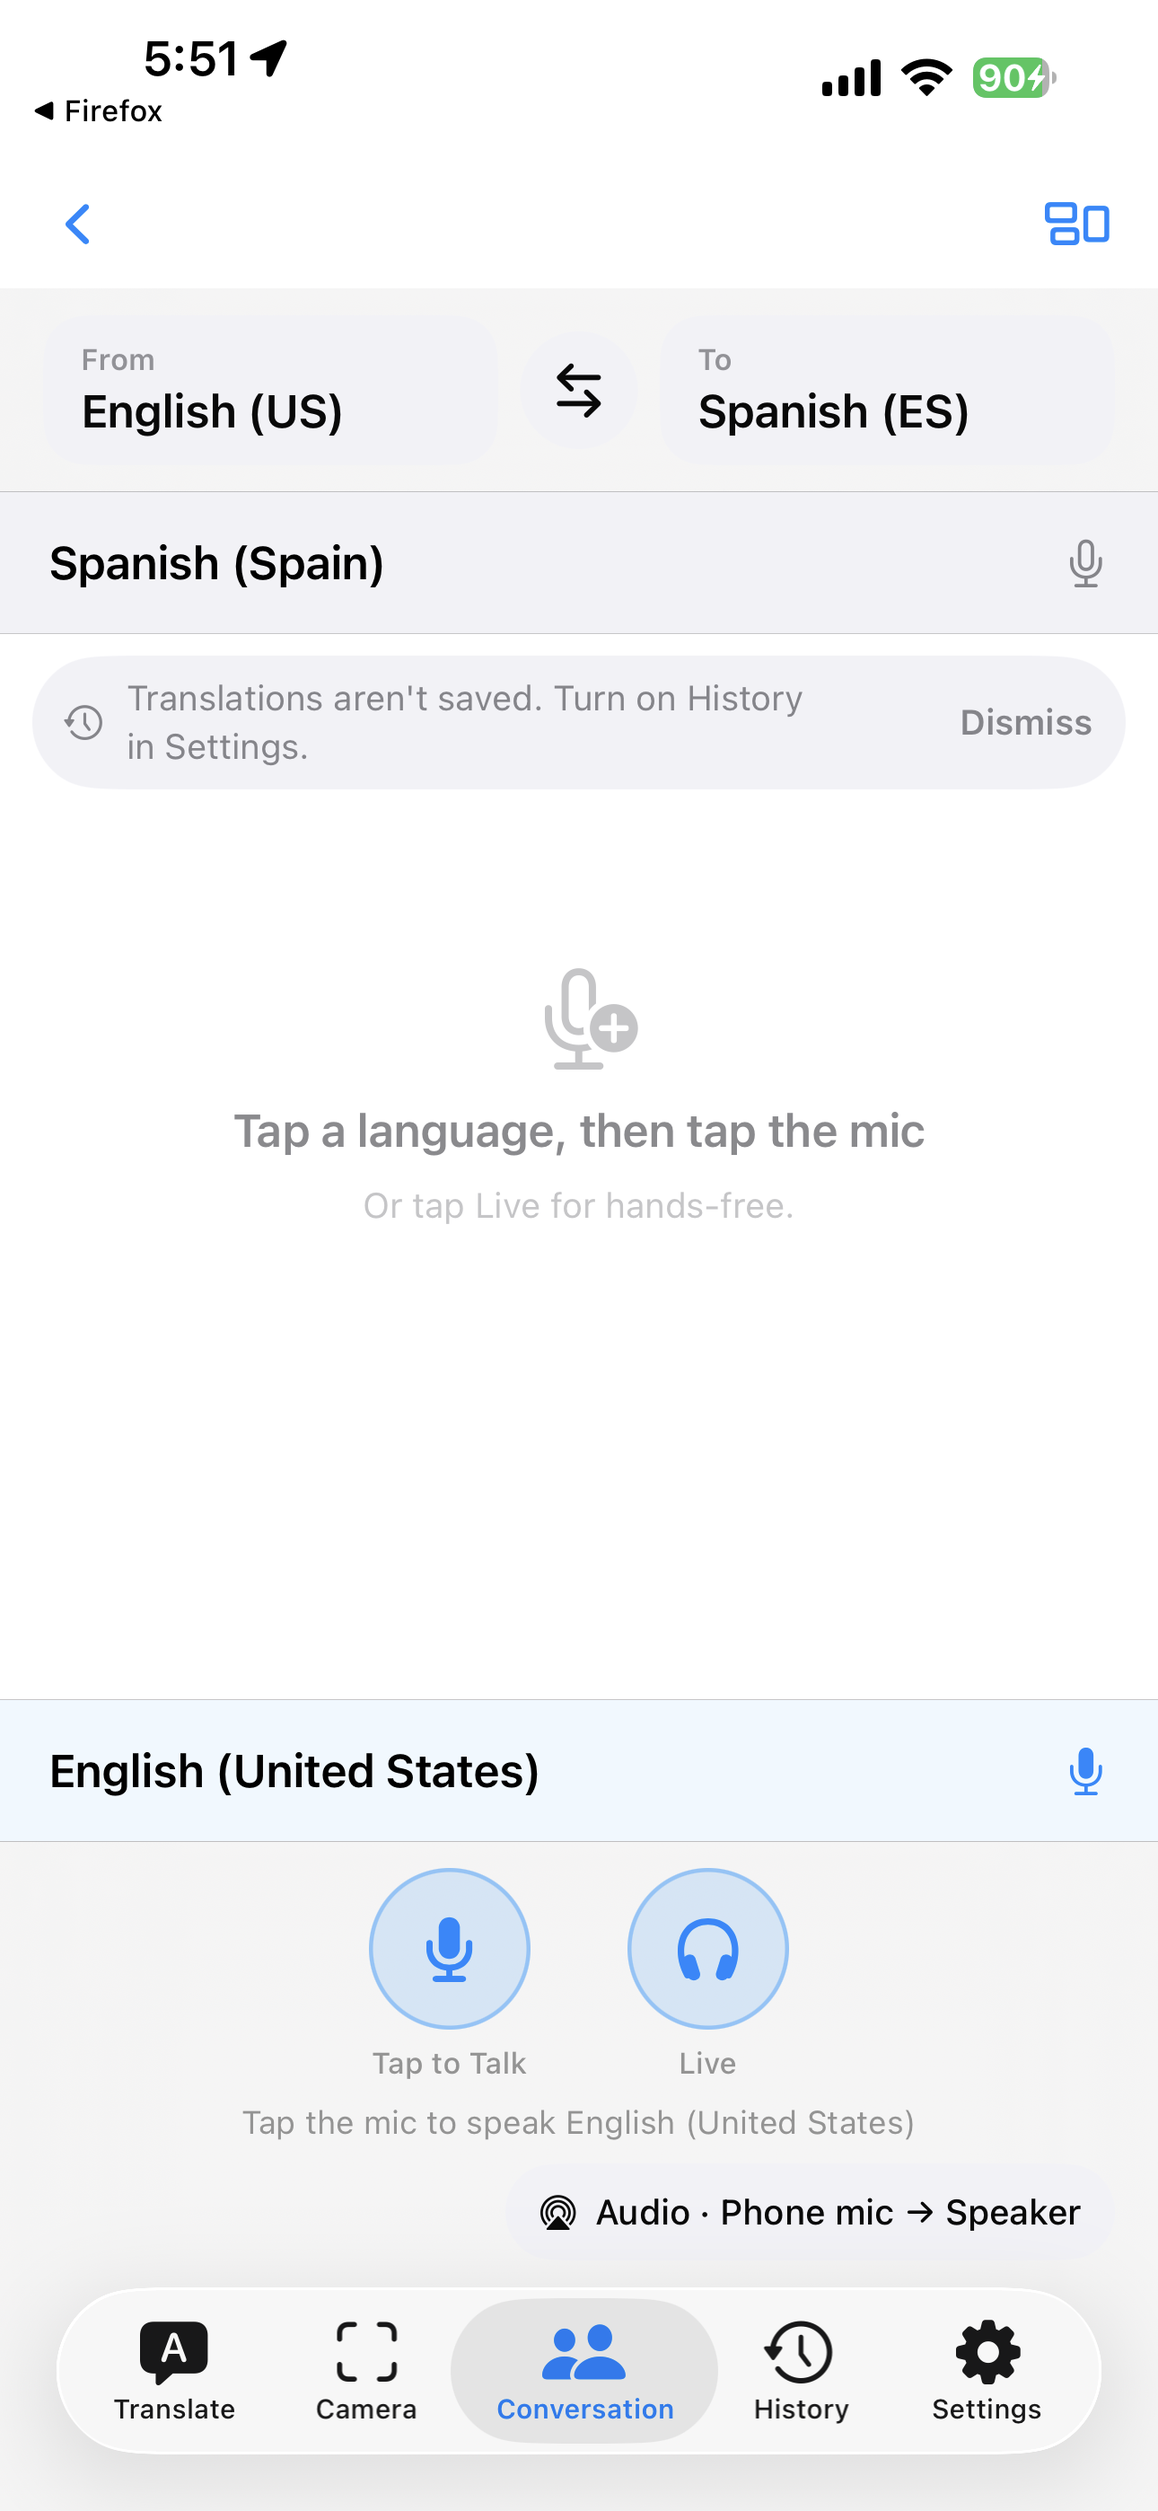
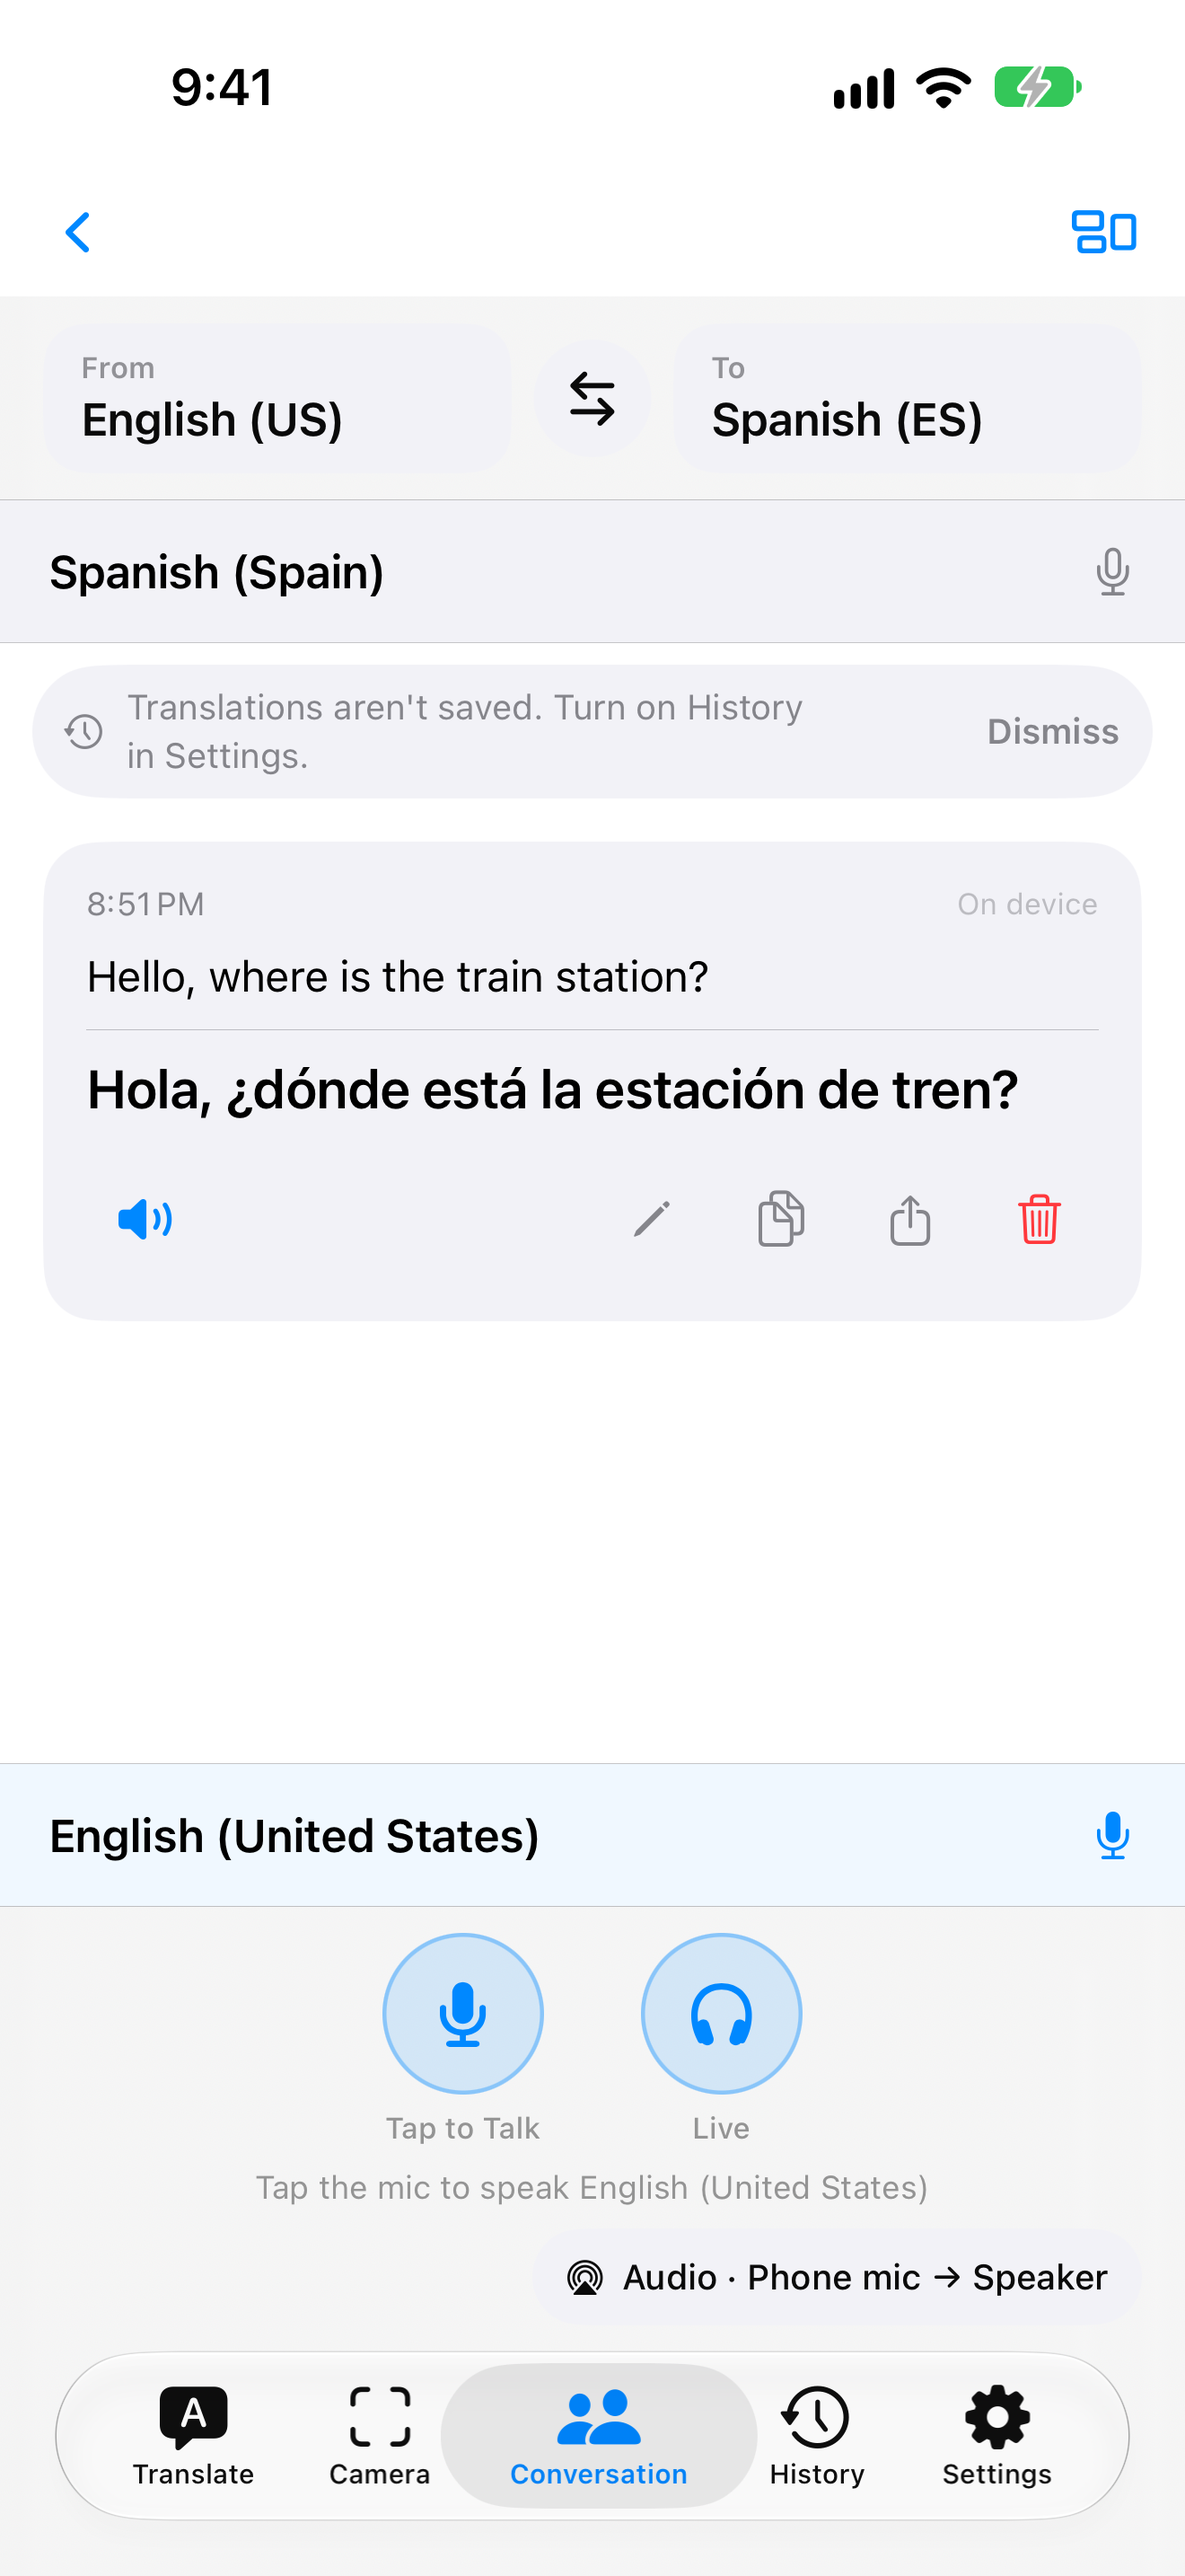
docs: refresh screenshots for build 82
Claude-Session: https://claude.ai/code/session_01Fg9SE5YzLRBhtQJmLh1j1J

diff --git a/README.md b/README.md
@@ -17,7 +17,7 @@ no analytics, and nothing to pay for.
 2. Open the link above on your iPhone and tap **Accept**, then **Install**.
 3. Builds expire after 90 days; TestFlight will prompt you when a new one is available.
 
-Current build: **0.4.14 (82)**. Requires iOS 18 or later.
+Current build: **0.4.14 (82)**. Requires iOS 18 or later. Screenshots below are from build 82 (iPhone 17 Pro Max simulator; the Live Camera shot is from an iPhone 15 Pro Max).
 
 ## What it does
 
